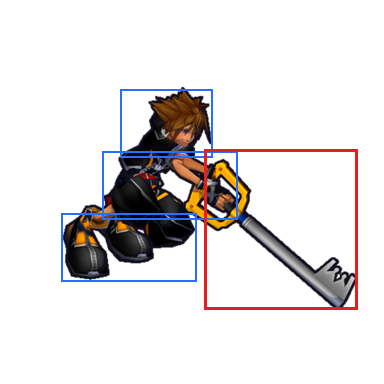
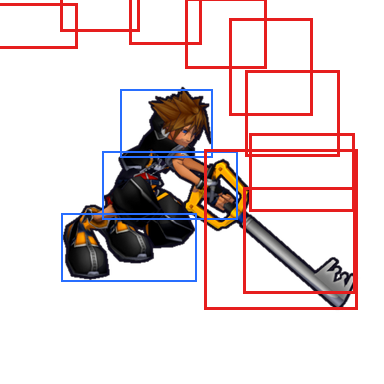
Same-strength stand/crouch cancels (once per strength), Crouching Light self-cancel once; Jumping Heavy hitbox follows its smear

Changed region(s): [[0.0, 0.0, 0.9375, 0.7812]]

diff --git a/design/models/sora/blender_workflow/make_boxes.py b/design/models/sora/blender_workflow/make_boxes.py
@@ -52,6 +52,34 @@ SWEEP_FROM_BY = {'attack_cmedium': 0.0, 'attack_jmedium': .8, 'attack_cheavy': 0
 # saved_attacks/crouching_heavy_up_thrust) needed 110 because its Key pointed straight up; the Upper Slash (v13,
 # Kvon November 6) reaches forward on its own, so none now. Its hitbox covers the whole swing from the rise.
 FORWARD_PX = {}
+# Attacks whose hitbox also follows the Keyblade smear on the active drawing (Kvon, November 16: "Sora's jumping heavy
+# hitbox to match that of its smear frames when active"): the smear's pixels are split along its arc into SMEAR_BINS
+# pieces, each boxed, so the boxes follow the curve instead of filling the arc's empty middle.
+SMEAR_HIT = {'attack_jheavy'}
+SMEAR_BINS = 8
+
+
+def smear_boxes(path):
+    a = np.asarray(Image.open(path).convert('RGBA').getchannel('A')) > 40
+    ys, xs = np.nonzero(a)
+    if not len(xs):
+        return []
+    # the arc's centre: least-squares circle through the smear's pixels
+    cx, cy = np.linalg.lstsq(np.column_stack((2*xs, 2*ys, np.ones(len(xs)))), xs**2 + ys**2, rcond=None)[0][:2]
+    ang = np.degrees(np.arctan2(ys - cy, xs - cx)) % 360
+    srt = np.sort(ang)
+    gaps = np.diff(np.append(srt, srt[0] + 360))
+    start = srt[(int(np.argmax(gaps)) + 1) % len(srt)]       # the arc begins after its largest empty angle
+    rel = (ang - start) % 360
+    edges = np.linspace(0, rel.max() + 1e-6, SMEAR_BINS + 1)
+    boxes = []
+    for k in range(SMEAR_BINS):
+        sel = (rel >= edges[k]) & (rel < edges[k + 1])
+        if sel.any():
+            bx, by = xs[sel], ys[sel]
+            boxes.append((int(bx.min()) - GROW, int(by.min()) - GROW, int(bx.max() - bx.min()) + 1 + 2*GROW,
+                          int(by.max() - by.min()) + 1 + 2*GROW))
+    return boxes
 
 
 def alpha_mask(path):
@@ -174,6 +202,8 @@ def main():
                 box = (box[0], box[1], min(mask.shape[1] - box[0], box[2] + FORWARD_PX[anim]), box[3])
             assert box, (anim, i)
             hit[name] = [box]
+            if anim in SMEAR_HIT:
+                hit[name] += smear_boxes(ASSETS / f'{anim}_smear_384' / f'sora_{anim}_smear_{i:02d}.png')
             # preview: drawing + hurt (blue) + hit (red)
             im = Image.open(ASSETS / name).convert('RGBA')
             bg = Image.new('RGBA', im.size, (255, 255, 255, 255)); bg.alpha_composite(im)

diff --git a/memory/Sora_Jumping_Heavy.md b/memory/Sora_Jumping_Heavy.md
@@ -12,3 +12,5 @@
 - Kvon: "In pose 5, angle the tip of the blade up more" (sheet cell 5 = the chop, drawing 3). v2: chop blade_dir from straight down (z -1.0) to U .75 + V .15 - .65 z (tip out toward the opponent); drawn 70 px left so the tip fits. `atk_jheavy2d_v2/`.
 - Kvon: "That's good" (v2). In the game as `attack_jheavy` (O in the air): assets `attack_jheavy_384/` + `_smear_384/`, holds [3,5,3,4,7,6,5], DRAW_SHIFT x [0,0,0,52.5,0,0,0] and new DRAW_SHIFT_Y [0,0,0,15,15,0,0] (the chop/low were drawn 20 px up). 33 frames: pressed at the jump's peak it lands during the low drawing (landing cuts air attacks short); pressed right after takeoff it plays fully. Tested headless + --write-movie. Old v1 kept until Kvon calls it final.
 - Kvon: "It doesn't always have to finish before landing, but I'd like for it to be able to finish when pressed at the very top of a jump. Shorten it to be able to do that, but still make it slower than the jumping medium." The 18-frame fall couldn't fit anything longer than the Medium (23); Kvon chose **"Make the jump longer"**. Now: Heavy holds [2,4,4,3,5,3,3] = startup 10 / active 3 / recovery 11 (24 frames, Medium 23); jump `JUMP_RISE_FRAMES` 18 -> 26 (same 200 px height, slower rise and fall: takeoff -> landing 52 frames, was 36). Pressed at the peak the Heavy ends 3 frames before landing (tested at the peak and 2 frames after). Knockdown kept unchanged with its own HURT_GRAVITY / KNOCK_SPEED (the old 18-frame values). The double jump (JUMP2_SPEED = 0.8 x jump speed) and the air dash fall also got floatier with the new gravity.
+
+**Hitbox follows the smear (Kvon, November 16):** "I want Sora's jumping heavy hitbox to match that of its smear frames when active." The active drawing (3) now has the Keyblade box plus 8 boxes following the smear's arc (make_boxes.py `SMEAR_HIT` / `smear_boxes`: the smear pixels split along the arc, each piece boxed, so the arc's empty middle stays out). The arc starts behind and above his head, so the hit now reaches opponents above and slightly behind him too - that is what the smear shows. The smear's startup drawing (2) has no hitbox (not active). Tested in Godot against standing and jumping dummies.

diff --git a/memory/Sora_Attack_Cancels.md b/memory/Sora_Attack_Cancels.md
@@ -17,3 +17,5 @@
 **Fact or rule:** Kvon first asked for Light + Medium (+ direction) = dash with R1 as a shortcut, then the same day: "Nevermind about Light and Medium being the dash input. Instead, keep R1 as a dedicated shortcut for dashing." **Light + Medium is NOT a dash** (it is just an attack). **R1 = dash:** with back held = back-dash (ground or air); otherwise (forward or no direction) = forward dash - the glide on the ground (glides on while R1 or forward is held), the air dash in the air. Same limits as double-tap dashes (once per jump, not during an air attack).
 **Why:** Kvon changed his mind; no reason given.
 **Built/tested:** fighter.gd input "dash"; match.gd `_pad_input` R1; test flag `--r1-demo-at=N[,N]`. Tested ground neutral / held / back, air neutral / back, L+M = Medium.
+
+**Same-strength cancels (Kvon, November 16):** "every ground attack cancellable into its crouching version, and vice versa. Crouching light should be able to cancel into itself one time." Kvon's answers: on hit or guard (like the chains), and **once per strength** in a string - sL -> cL is allowed but not back to sL; cM -> sM, sH -> cH likewise; Crouching Light into itself once (cL -> cL, then only stronger attacks; cL -> cL -> sL still allowed as the light's one stance switch). A whiffed attack can't use them. A string starts fresh from any neutral ground move. Code: fighter.gd `_switched` / `_clight_again`, in the ground attack block. Tested in Godot: sL->cL, cL->cL, cM->sM, guarded sL->cL work; sL->cL->sL, a third cL, cM->sM->cM and a whiffed sL->cL don't; sL->sM->cH chain unchanged.
